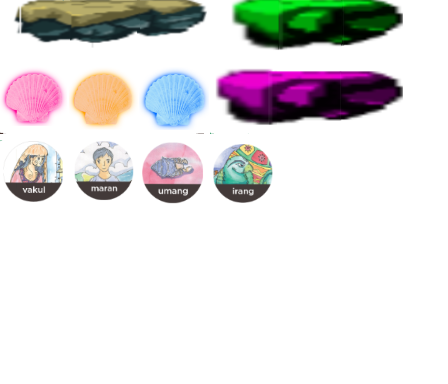
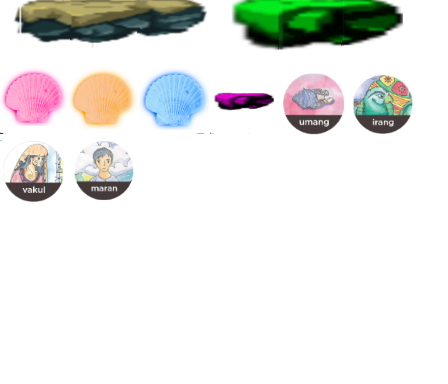
fix tilemap errors

Changed region(s): [[0.4688, 0.1562, 0.9375, 0.375], [0.3125, 0.375, 0.625, 0.5312]]

diff --git a/js/states/stateMain.js b/js/states/stateMain.js
@@ -76,7 +76,7 @@ var StateMain = {
 
         this.layer = this.map.createLayer("Tile Layer 1");
         this.layer.resizeWorld();
-        this.map.setCollisionBetween(0, 12);
+        this.map.setCollisionBetween(0, 11);
 
         this.upArrow = game.add.sprite(0, 0, "arrow");
         this.downArrow = game.add.sprite(0, 50, "arrow");
@@ -154,10 +154,10 @@ var StateMain = {
         game.camera.follow(this.robot);
         cursors = game.input.keyboard.createCursorKeys();
 
+        this.map.setTileIndexCallback(12, this.gotBomb, this);
         this.map.setTileIndexCallback(13, this.gotBomb, this);
         this.map.setTileIndexCallback(14, this.gotBomb, this);
         this.map.setTileIndexCallback(15, this.gotBomb, this);
-        this.map.setTileIndexCallback(16, this.gotBomb, this);
 
 
         this.makeMonsters();
